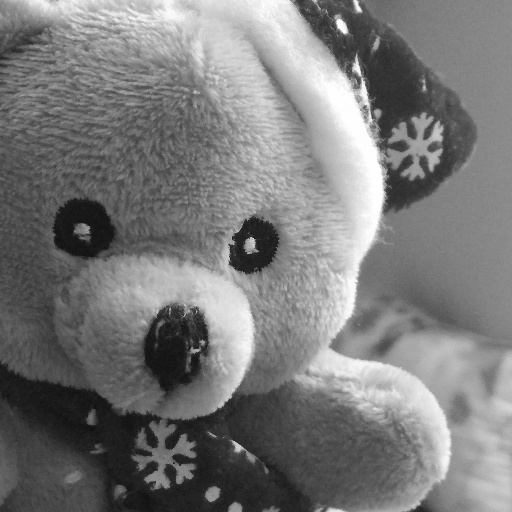
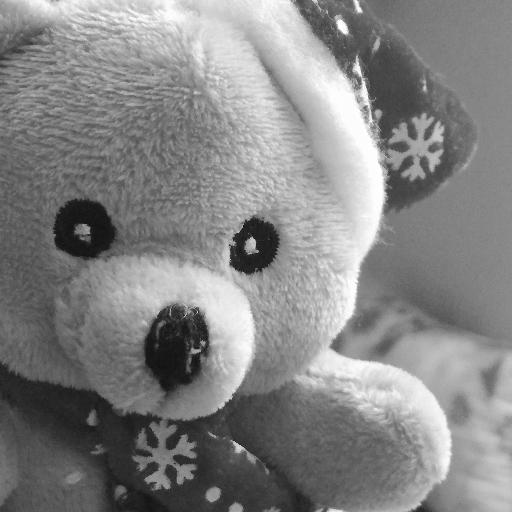
cv2 rewritten to pil

diff --git a/04/watermark.py b/04/watermark.py
@@ -1,26 +1,25 @@
 import numpy as np
 import pywt
-import cv2 
 import os
+from PIL import Image
 
 current_path = str(os.path.dirname(__file__))  
 
 image = 'mis1.jpg'   
 watermark = 'mis2.jpg' 
 
-def convert_image(image, size):
-    imArray = cv2.imread(current_path + '/pictures/' + image)
+def convert_image(image_name, size):
+    img = Image.open('./pictures/' + image_name).resize((size, size))
+    img = img.convert('L')
+    img.save('./dataset/' + image_name)
 
-    imArray = cv2.resize(imArray, (size, size))
-    imArray = cv2.cvtColor( imArray,cv2.COLOR_RGB2GRAY )
-    # print imArray[0][0]               #print color for pixel(0,0)
-    cv2.imwrite(current_path + '/dataset/' + image, imArray)
+    image_array = np.array(img)
+    image_array = np.float32(image_array) 
+    image_array /= 255 
+    print image_array[0][0]               #qrcode white color = 1.0
+    print image_array[10][10]             #qrcode black color = 0.0  
 
-    imArray =  np.float32(imArray) 
-    imArray /= 255;
-    # print imArray[0][0]               #qrcode white color = 1.0
-    # print imArray[10][10]             #qrcode black color = 0.0           
-    return imArray
+    return image_array
 
 def process_coefficients(imArray, model, level):
     coeffs=pywt.wavedec2(data = imArray, wavelet = model, level = level)
@@ -72,15 +71,16 @@ def get_watermark(coeffs_watermarked_image):
     return watermark
 
 
-def recover_watermark(imArray, model='haar'):
-    imArray = cv2.imread(current_path + '/result/image_with_watermark.jpg')
+def recover_watermark(model='haar'):
+    img = Image.open('./result/image_with_watermark.jpg')
+    img = img.convert('L')
 
-    imArray = cv2.resize(imArray, (512, 512))
-    imArray = cv2.cvtColor( imArray,cv2.COLOR_RGB2GRAY )
-    imArray =  np.float32(imArray) 
-    imArray /= 255;
+    image_array = np.array(img)
+    image_array = np.float32(image_array) 
+    image_array /= 255 
 
-    coeffs_watermarked_image = process_coefficients(imArray, model, level=2)
+
+    coeffs_watermarked_image = process_coefficients(image_array, model, level=2)
     coeffs_watermark = get_watermark(coeffs_watermarked_image)
 
     # watermark reconstruction
@@ -89,7 +89,8 @@ def recover_watermark(imArray, model='haar'):
     watermark_array =  np.uint8(watermark_array)
 
 #Save result
-    cv2.imwrite(current_path + '/result/recovered_watermark.jpg', watermark_array)
+    img = Image.fromarray(watermark_array)
+    img.save('./result/recovered_watermark.jpg')
 
 
 
@@ -106,16 +107,17 @@ def w2d(img):
 
 
 # reconstruction
-    imArray_H=pywt.waverec2(coeffs_image, model)
-    imArray_H *= 255;
-    imArray_H =  np.uint8(imArray_H)
+    image_array_H=pywt.waverec2(coeffs_image, model)
+    image_array_H *= 255;
+    image_array_H =  np.uint8(image_array_H)
 
 #Save result
-    cv2.imwrite(current_path + '/result/image_with_watermark.jpg', imArray_H)
+    img = Image.fromarray(image_array_H)
+    img.save('./result/image_with_watermark.jpg')
 
 
 # recover images
-    recover_watermark(imArray = imArray_H, model=model)
+    recover_watermark(model=model)
 
 
 w2d("test")
